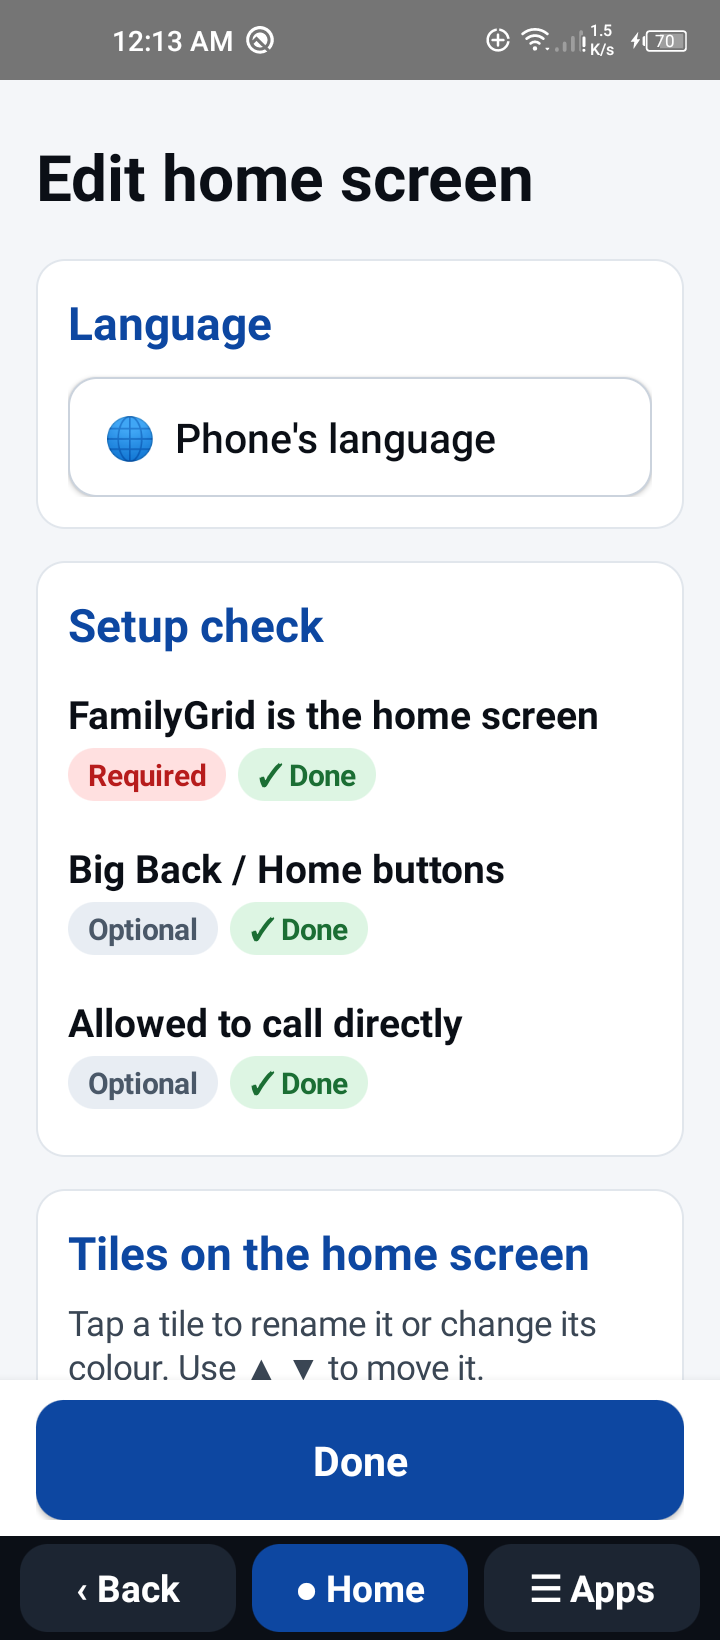
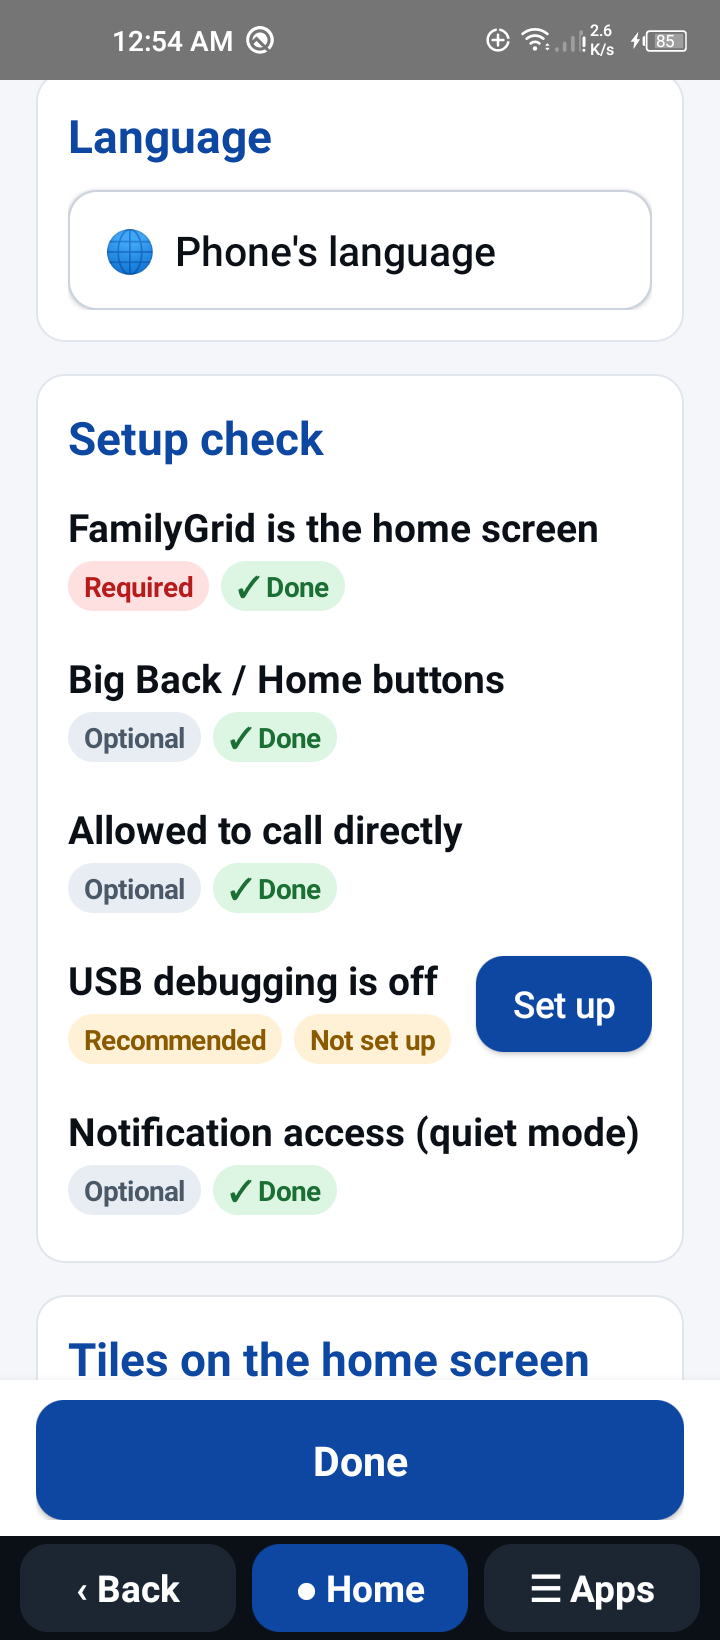
FamilyGrid 0.4.1: safer clean-up and handover
- Setup check: "USB debugging is off" (Recommended) with a guide to revoke
  ADB authorisations and switch debugging/Developer options off
- AI guide: cross-check packages against the UAD-ng list before suggesting
  removal; keep removed-packages.txt; new prompts for re-checking after a
  system update and for a safe handover; handover checklist
- README: safety section and FAQ; checklist labels stay on one line

diff --git a/src/dev/fluxnova/familygrid/SettingsActivity.java b/src/dev/fluxnova/familygrid/SettingsActivity.java
@@ -313,6 +313,8 @@ public class SettingsActivity extends Activity {
                 HubConfig.setDirectCall(this, true);
                 requestPermissions(new String[]{Manifest.permission.CALL_PHONE}, REQ_CALL_PERMISSION);
             }));
+        checkRow(getString(R.string.check_adb), LEVEL_RECOMMENDED, !HubActions.isUsbDebuggingOn(this),
+            () -> guide(R.string.guide_adb, () -> HubActions.openDeveloperOptions(this)));
         if (HubConfig.quietMode(this)) {
             checkRow(getString(R.string.check_quiet), false, QuietService.hasAccess(this), this::openQuietAccess);
         }
@@ -323,7 +325,14 @@ public class SettingsActivity extends Activity {
         }
     }
 
+    private static final int LEVEL_OPTIONAL = 0, LEVEL_REQUIRED = 1, LEVEL_RECOMMENDED = 2;
+
     private void checkRow(String title, boolean required, boolean ok, Runnable fix) {
+        checkRow(title, required ? LEVEL_REQUIRED : LEVEL_OPTIONAL, ok, fix);
+    }
+
+    private void checkRow(String title, int level, boolean ok, Runnable fix) {
+        boolean required = level == LEVEL_REQUIRED;
         LinearLayout r = new LinearLayout(this);
         r.setOrientation(LinearLayout.HORIZONTAL);
         r.setGravity(Gravity.CENTER_VERTICAL);
@@ -337,8 +346,12 @@ public class SettingsActivity extends Activity {
 
         LinearLayout tags = new LinearLayout(this);
         tags.setOrientation(LinearLayout.HORIZONTAL);
-        tags.addView(pill(getString(required ? R.string.tag_required : R.string.tag_optional),
-            required ? 0xFFFFE0E0 : 0xFFE8EDF3, required ? 0xFFB71C1C : 0xFF4A5868));
+        if (level == LEVEL_RECOMMENDED) {
+            tags.addView(pill(getString(R.string.tag_recommended), 0xFFFFF1D6, 0xFF8A5A00));
+        } else {
+            tags.addView(pill(getString(required ? R.string.tag_required : R.string.tag_optional),
+                required ? 0xFFFFE0E0 : 0xFFE8EDF3, required ? 0xFFB71C1C : 0xFF4A5868));
+        }
         TextView st = pill(getString(ok ? R.string.status_done : R.string.status_todo),
             ok ? 0xFFDDF5E3 : 0xFFFFF1D6, ok ? 0xFF1B6E34 : 0xFF8A5A00);
         LinearLayout.LayoutParams sl = new LinearLayout.LayoutParams(
@@ -365,10 +378,11 @@ public class SettingsActivity extends Activity {
     private TextView pill(String s, int bg, int fg) {
         TextView p = new TextView(this);
         p.setText(s);
-        p.setTextSize(TypedValue.COMPLEX_UNIT_SP, 13);
+        p.setTextSize(TypedValue.COMPLEX_UNIT_SP, 12);
         p.setTypeface(Typeface.DEFAULT_BOLD);
         p.setTextColor(fg);
-        p.setPadding(dp(10), dp(3), dp(10), dp(3));
+        p.setSingleLine(true);
+        p.setPadding(dp(8), dp(3), dp(8), dp(3));
         GradientDrawable d = new GradientDrawable();
         d.setColor(bg);
         d.setCornerRadius(dp(20));

diff --git a/src/dev/fluxnova/familygrid/HubActions.java b/src/dev/fluxnova/familygrid/HubActions.java
@@ -176,6 +176,17 @@ final class HubActions {
         if (!start(c, i)) openSettings(c);
     }
 
+    /** USB debugging gives a computer far more control than an app; it should be off after setup. */
+    static boolean isUsbDebuggingOn(Context c) {
+        return Settings.Global.getInt(c.getContentResolver(), Settings.Global.ADB_ENABLED, 0) != 0;
+    }
+
+    static void openDeveloperOptions(Context c) {
+        Intent i = new Intent(Settings.ACTION_APPLICATION_DEVELOPMENT_SETTINGS)
+            .addFlags(Intent.FLAG_ACTIVITY_NEW_TASK);
+        if (!start(c, i)) openSettings(c);
+    }
+
     static void openNotificationAccess(Context c) {
         Intent i = new Intent("android.settings.ACTION_NOTIFICATION_LISTENER_SETTINGS")
             .addFlags(Intent.FLAG_ACTIVITY_NEW_TASK);

diff --git a/docs/AI_AGENT_GUIDE.md b/docs/AI_AGENT_GUIDE.md
@@ -66,8 +66,20 @@ Using phone-inventory.txt, sort every package into these groups and show me a ta
   than Play, "cleaners/boosters", duplicate browsers, preinstalled promo apps.
 - ASK ME: anything you are not sure about.
 
+Cross-check before you suggest anything. Do NOT rely on package names alone:
+- Download the community-maintained package list from Universal Android Debloater Next Generation
+  (GitHub: Universal-Debloater-Alliance/universal-android-debloater-next-generation, file uad_lists.json).
+- For every package, add a column with its UAD-ng safety rating (Recommended / Advanced / Expert /
+  Unsafe) and description, or "not listed".
+- Only suggest REMOVE for packages rated "Recommended" (or "Advanced" with a clear reason).
+  Anything "Expert", "Unsafe" or "not listed" goes to ASK ME, even if the name looks like junk.
+
 Do not remove anything. Wait for me to approve the REMOVE list.
 ```
+
+> **Why the cross-check matters:** a name like `com.transsion.xyz` can be an ad service *or* part of the
+> phone's dialer. The UAD-ng list is reviewed by its community per manufacturer, and you approve every package yourself,
+> so the agent's guess is never the only check.
 
 ### Prompt 3: Disable first (trial run, reversible)
 
@@ -89,6 +101,9 @@ and report any errors. Then tell me to use the phone normally for a day before c
 The phone has worked fine with the junk disabled. Now create uninstall-junk with
 `adb shell pm uninstall --user 0 <package>` for the same packages, keep restore-all up to date,
 run it, and then list the remaining third-party packages so I can check the result.
+Also save the final list of removed packages to removed-packages.txt (one per line) and record the
+phone's build fingerprint (`adb shell getprop ro.build.fingerprint`) in it, so we can tell
+after a system update whether anything came back.
 ```
 
 ### Prompt 5: Stop pop-ups that appear over other apps
@@ -137,6 +152,50 @@ Verify the phone is healthy:
 - no crashes: `adb logcat -d -b crash`.
 Report anything unusual. Also confirm restore-all is saved somewhere safe.
 ```
+
+### Prompt 9: After a system update (re-check, don't guess)
+
+System updates can bring removed apps back or switch them on again. Keep removed-packages.txt and
+restore-all with your notes, then after any update:
+
+```text
+The phone just had a system update. Compare the current build fingerprint with the one in
+removed-packages.txt. Then, for every package in removed-packages.txt, check whether it is installed
+for user 0 again (`adb shell pm list packages <package>`) or enabled.
+Show me ONLY the ones that came back, re-check each against the UAD-ng list (the update may have
+changed what a package does), and wait for my approval before removing them again with the same
+reversible commands. Also confirm FamilyGrid is still the default home app.
+```
+
+### Prompt 10: Hand the phone back safely (lock down ADB)
+
+ADB gives your computer far more control over the phone than any normal app has. When everything
+works, remove that access:
+
+```text
+We are finished. Help me hand the phone back safely:
+1. Confirm restore-all and removed-packages.txt are saved on this computer (not on the phone).
+2. Run `adb kill-server` on this computer.
+3. Then tell me, step by step, to do this ON THE PHONE (you cannot do it over ADB):
+   Settings › System › Developer options › "Revoke USB debugging authorisations",
+   then switch "USB debugging" off, then switch "Developer options" off at the top.
+4. Finally run `adb devices` and confirm the phone is no longer listed.
+```
+
+FamilyGrid's **Setup check** also shows **"USB debugging is off" (Recommended)** and keeps nagging
+until it is, so a phone isn't handed over with ADB still open.
+
+---
+
+## ✅ Handover checklist
+
+- [ ] Phone works: calls, WhatsApp, camera, messages, Play Store
+- [ ] FamilyGrid is the home app; Setup check is all ✓
+- [ ] `restore-all` and `removed-packages.txt` saved on **your** computer
+- [ ] **Revoke USB debugging authorisations** (Developer options)
+- [ ] **USB debugging off** and **Developer options off**
+- [ ] A FamilyGrid **PIN** set, so tiles aren't changed by accident
+- [ ] Re-check after the next system update (Prompt 9)
 
 ---
 

diff --git a/README.md b/README.md
@@ -13,7 +13,7 @@
 <p align="center">
   <a href="https://github.com/zaddy88/familygrid-launcher/releases/latest/download/FamilyGrid.apk"><img alt="Download APK" src="https://img.shields.io/badge/Download-APK-2ea44f?style=for-the-badge&logo=android&logoColor=white"></a>
   <img alt="Android 7.0+" src="https://img.shields.io/badge/Android-7.0%2B-3DDC84?style=for-the-badge&logo=android&logoColor=white">
-  <img alt="Version 0.4.0" src="https://img.shields.io/badge/version-0.4.0-0D47A1?style=for-the-badge">
+  <img alt="Version 0.4.1" src="https://img.shields.io/badge/version-0.4.1-0D47A1?style=for-the-badge">
   <img alt="License Apache 2.0" src="https://img.shields.io/badge/license-Apache%202.0-blue?style=for-the-badge">
   <a href="https://whop.com/checkout/plan_Xy4vheVKTXtxv"><img alt="Buy me a coffee" src="https://img.shields.io/badge/Buy%20me%20a%20coffee-FFDD00?style=for-the-badge&logo=buymeacoffee&logoColor=black"></a>
 </p>
@@ -142,8 +142,36 @@ coding agent (Claude Code, OpenAI Codex, Cursor, Gemini CLI, Warp…) through it
 7. Install FamilyGrid
 8. Check that everything still works
 
-No root needed, and every step comes with an undo script. *I did mine with **Warp + GLM**: about 50 junk apps
+No root needed, and every step comes with an undo script. Two more prompts cover **re-checking after a
+system update** and **handing the phone back safely** (revoke ADB, switch off USB debugging). *I did mine with **Warp + GLM**: about 50 junk apps
 gone from a TECNO POVA in one session.*
+
+### 🛡 Safety: how packages are chosen, and how you hand the phone back
+- **Not by name guessing.** The agent cross-checks every package against the community-maintained
+  [Universal Android Debloater (UAD-ng)](https://github.com/Universal-Debloater-Alliance/universal-android-debloater-next-generation)
+  list and its safety ratings. Only "Recommended" ones are suggested; anything unknown goes to
+  *ask me*, and **you approve every package** before anything changes.
+- **Always reversible.** It disables first, removes for the current user only, and keeps a `restore-all` script plus a
+  `removed-packages.txt` list.
+- **After a system update**, a prompt compares against that list and shows only what came back.
+- **Lock it down at handover.** ADB gives a computer far more control than any app. The handover prompt
+  revokes the computer's authorisation and switches off USB debugging and Developer options. FamilyGrid's
+  Setup check keeps showing **"USB debugging is off" (Recommended)** until it's done.
+
+---
+
+## ❓ FAQ
+
+**Will a system update undo the clean-up?** It can: updates sometimes reinstall or re-enable removed
+apps. Your FamilyGrid tiles and settings are kept. Run *Prompt 9* from the guide after an update to see
+exactly what came back.
+
+**What if I add more tiles than fit?** The home screen scrolls; tiles keep their size.
+
+**Can FamilyGrid block pop-up ads by itself?** It hides junk *notifications* (Quiet mode). Pop-ups drawn
+*over* other apps need the ADB step in the guide, because no normal app can block them.
+
+**Is it safe to leave USB debugging on?** No. Switch it off when you're done. The Setup check reminds you.
 
 ---
 
